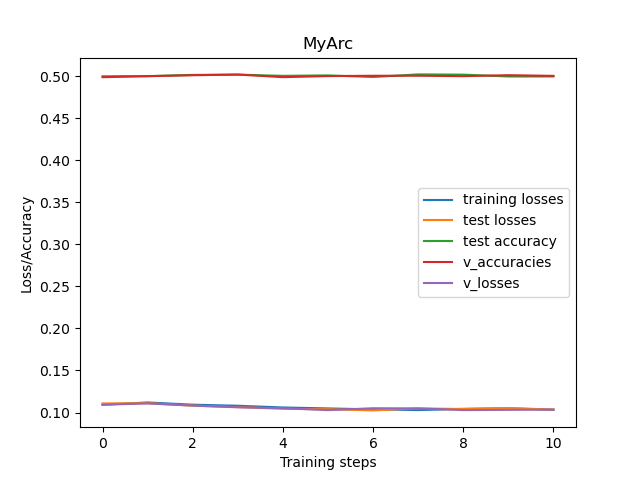
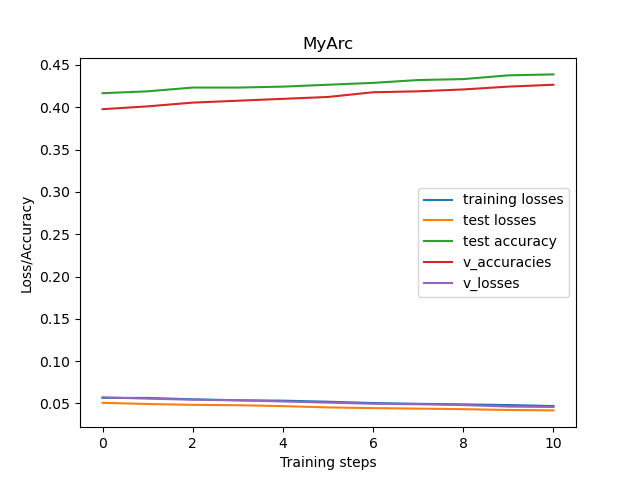
typo found in Trainer, accuracy improves
calc_mf_derv_widths -> was calculating for a (centers) and vice versa

diff --git a/neurofuzzy_pkg/utils/MyArcTrainer.py b/neurofuzzy_pkg/utils/MyArcTrainer.py
@@ -35,7 +35,7 @@ class MyArcTrainer(Trainer):
             test_ds (PrefetchDataset): dataset for testing
         """
 
-      #  self.n_epochs = 10
+        self.n_epochs = 10
         self.learning_rate = 1
         
         # train
@@ -55,9 +55,12 @@ class MyArcTrainer(Trainer):
             test_ds (PrefetchDataset): dataset for testing
         """
         # picking random batch from dataset
-        test_ds = self.pick_batch(test_ds_og)
-        train_ds =  self.pick_batch(train_ds_og)
-        validation_ds = self.pick_batch(validation_ds_og)
+        # test_ds = self.pick_batch(test_ds_og)
+        # train_ds =  self.pick_batch(train_ds_og)
+        # validation_ds = self.pick_batch(validation_ds_og)
+        test_ds =  test_ds_og
+        train_ds = train_ds_og
+        validation_ds = validation_ds_og
 
         # run model on test_ds to keep track of progress during training
         test_loss, test_accuracy = self.test(test_ds)
@@ -89,9 +92,13 @@ class MyArcTrainer(Trainer):
             #validation_ds = tf.random.shuffle(validation_ds)
 
             # in each epoch, pick a random batch
-            test_ds =  self.pick_batch(test_ds_og)
-            train_ds =  self.pick_batch(train_ds_og)
-            validation_ds = self.pick_batch(validation_ds_og)
+            # test_ds =  self.pick_batch(test_ds_og)
+            # train_ds =  self.pick_batch(train_ds_og)
+            # validation_ds = self.pick_batch(validation_ds_og)
+
+            test_ds =  test_ds_og
+            train_ds = train_ds_og
+            validation_ds = validation_ds_og
 
 
             # train and keep track
@@ -285,7 +292,7 @@ class MyArcTrainer(Trainer):
             for mfID in range(self.arc.FuzzificationLayer.n_mfs):
 
                 # calling MF 
-                mu = MF_gaussian_prime_a(x, self.arc.FuzzificationLayer.centers[xID][mfID], self.arc.FuzzificationLayer.widths[xID][mfID])    
+                mu = MF_gaussian_prime_b(x, self.arc.FuzzificationLayer.centers[xID][mfID], self.arc.FuzzificationLayer.widths[xID][mfID])    
                 mus_per_x.append(mu)
         
             # write to TensorArray
@@ -307,7 +314,7 @@ class MyArcTrainer(Trainer):
             for mfID in range(self.arc.FuzzificationLayer.n_mfs):
 
                 # calling MF 
-                mu = MF_gaussian_prime_b(x, self.arc.FuzzificationLayer.centers[xID][mfID], self.arc.FuzzificationLayer.widths[xID][mfID])    
+                mu = MF_gaussian_prime_a(x, self.arc.FuzzificationLayer.centers[xID][mfID], self.arc.FuzzificationLayer.widths[xID][mfID])    
                 mus_per_x.append(mu)
         
             # write to TensorArray

diff --git a/neurofuzzy_pkg/utils/MFs.py b/neurofuzzy_pkg/utils/MFs.py
@@ -143,10 +143,16 @@ def MF_tri(x, a, b):
         AssertionError; if output is outside bounds
     """
     mu = 1- ((2*abs(x-a)/b))
-    assert (mu <= 1 )& (mu >= 0), 'Degree of membership is outside bounds, \
-                                    refer to formal def of mf: µA:X → [0,1]'
+    # assert (mu <= 1 )& (mu >= 0), 'Degree of membership is outside bounds, \
+    #                                 refer to formal def of mf: µA:X → [0,1]'
     return mu
 
+def MF_tri_prime_a(x,a,b):
+    mu = (2*(x-a))/(b*abs(x-a))
+    return mu
+
+def MF_tri_prime_b(x, a, b):
+    mu = (2*abs(a-x)/b**2)
 
 def visuMFs(layer, dir, func,names, means):
     """Visualizing the current MFs

diff --git a/model_pkg/DataPipeline.py b/model_pkg/DataPipeline.py
@@ -34,7 +34,7 @@ class DataPipeline():
 
         self.n_batches = n_batches
         self.params = [self.n_batches]
-        self.batch_size = 32 # hc
+        self.batch_size = 500 # hc
         
         self.online = online
 
